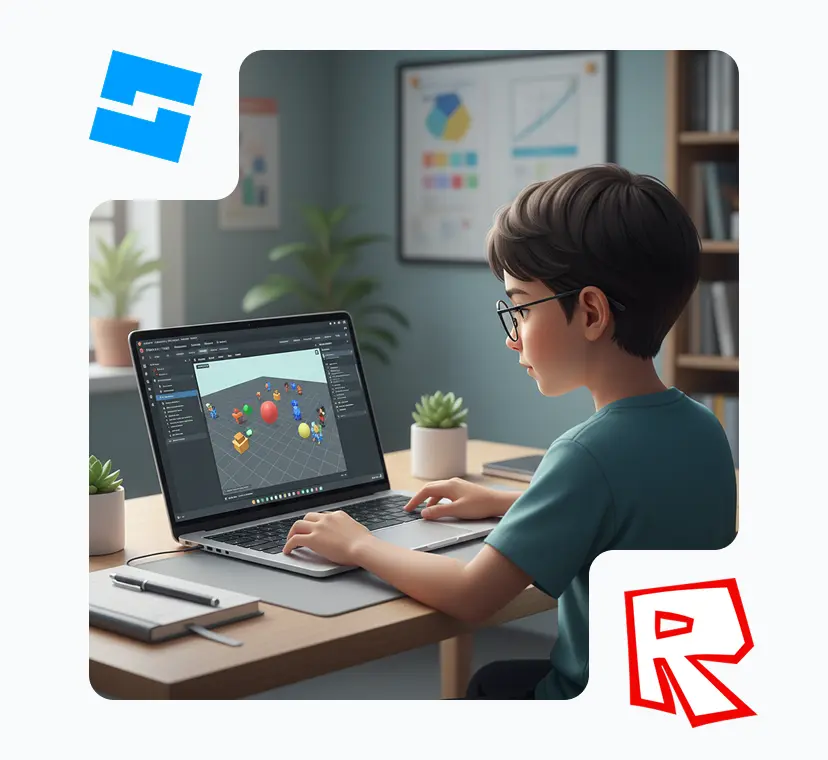
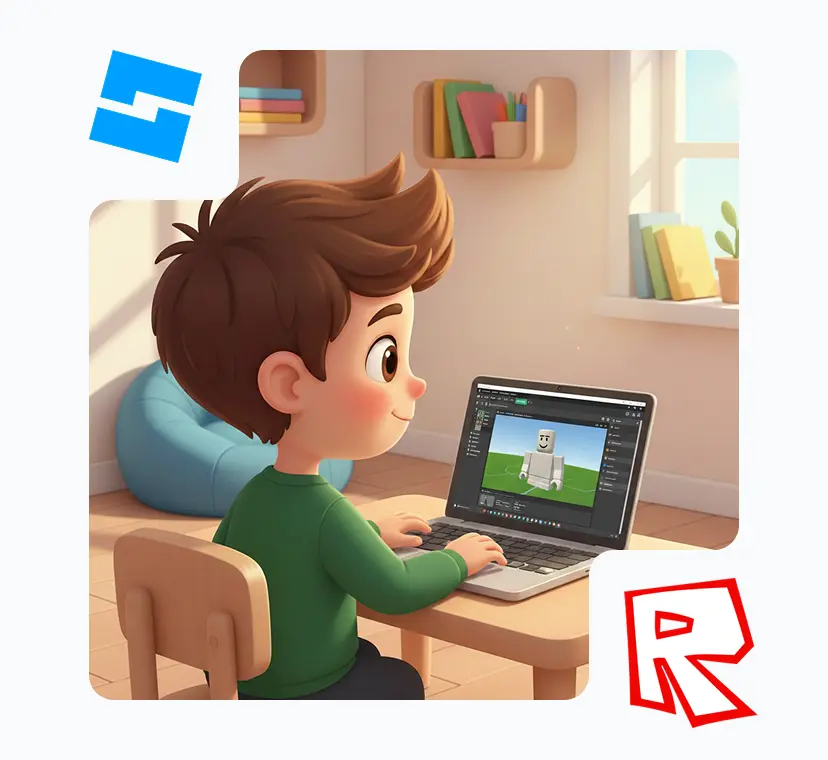
[UPDATE] merubah gambar menjadi dari AI

diff --git a/resources/views/pages/program.blade.php b/resources/views/pages/program.blade.php
@@ -3,7 +3,7 @@
 
     <x-program.hero title="Bangun Kreativitas Anak Lewat Teknologi !"
         subtitle="Alhazen Academy membantu anak memahami teknologi lewat program coding, animasi, robotika, dan desain interaktif."
-        ctaText="Daftar Kelas Gratis" ctaHref="{{ route('trial') }}" imgHero="assets/kids/program/card-photo.jpg" />
+        ctaText="Daftar Kelas Gratis" ctaHref="{{ route('trial') }}" imgHero="assets/kids/program/card-photo.webp" />
 
     <x-program.detail-program slogan="Sesuaikan Program, Maksimalkan Potensi Anak"
         title="Semua kurikulum telah terakreditasi STEM.org."
